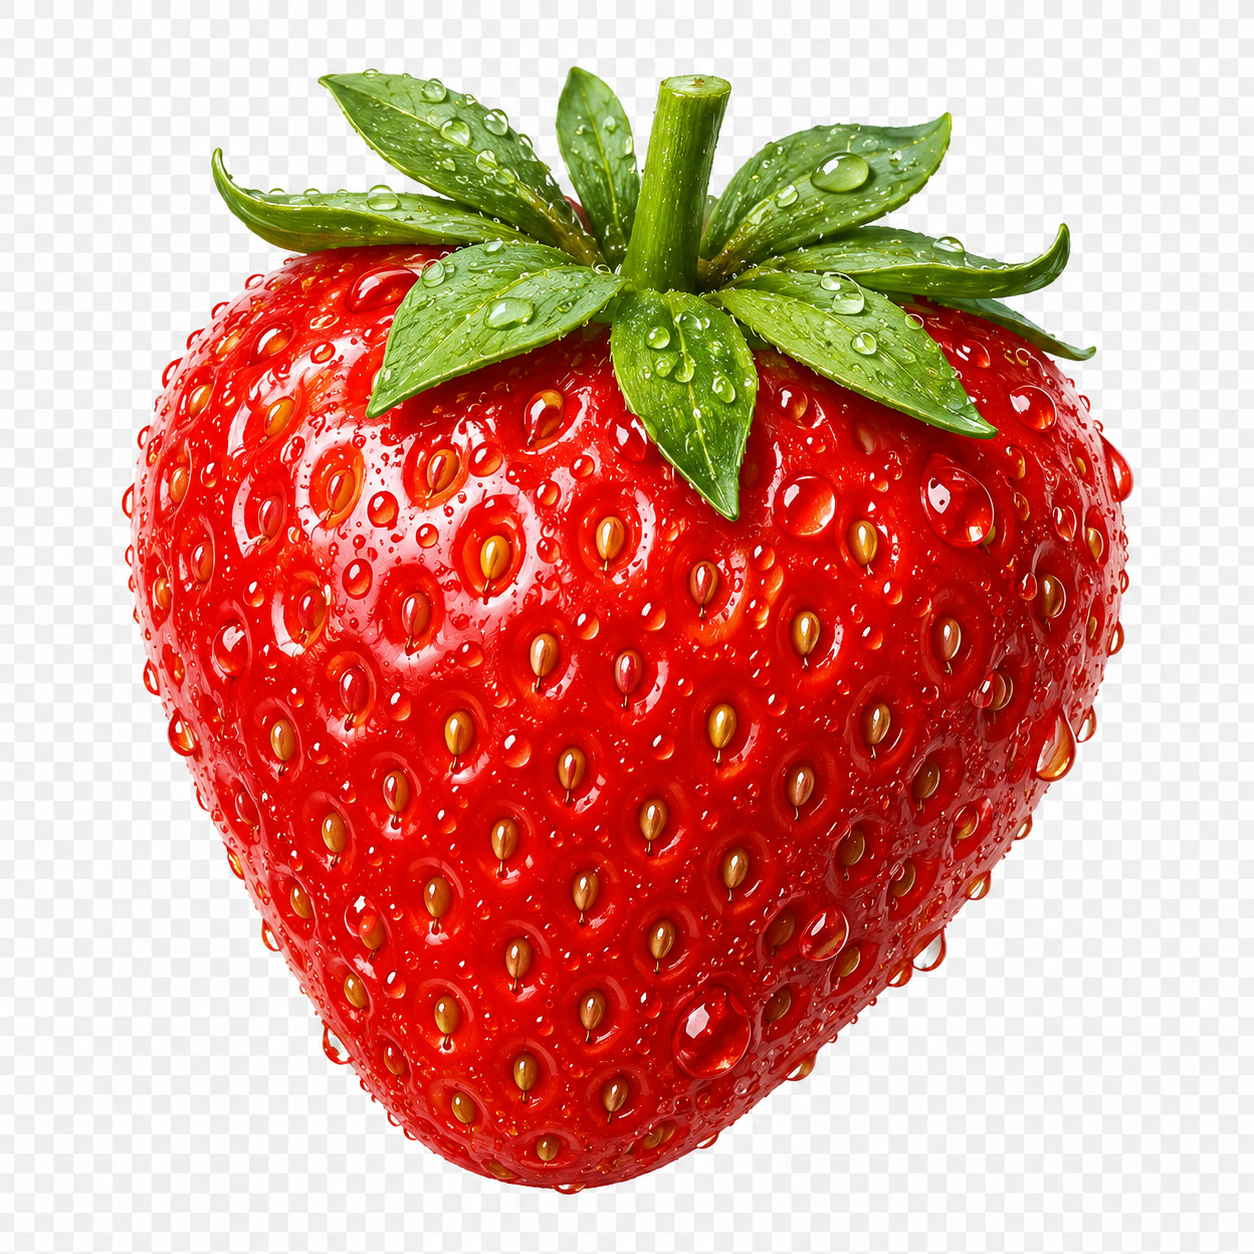
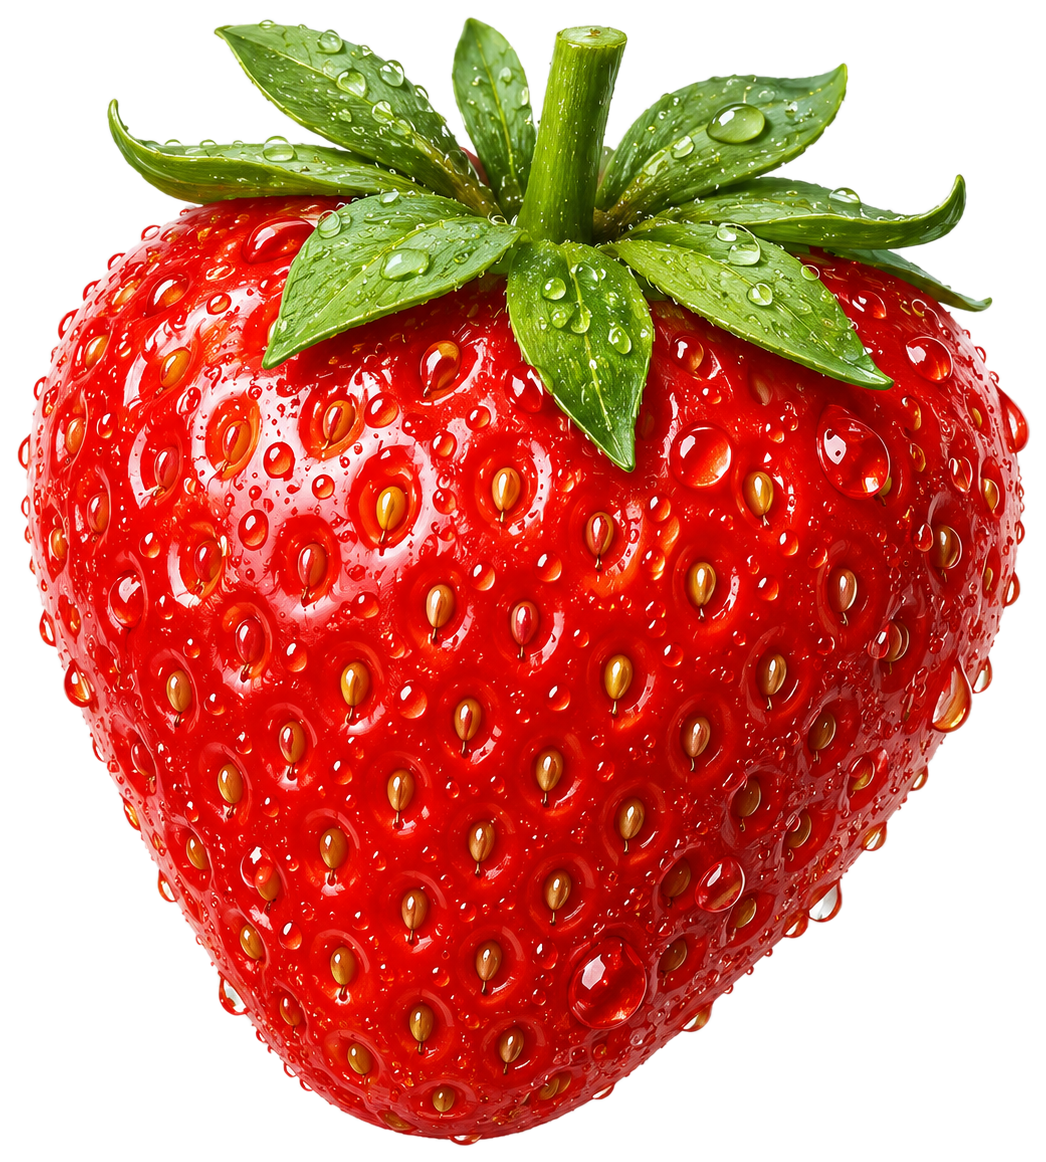
Add files via upload

diff --git a/strawberry-farm.html b/strawberry-farm.html
@@ -90,7 +90,7 @@ body{
 }
 #basketDropZone{
   position:absolute;
-  left:29%; top:52%; width:42%; height:32%;
+  left:26%; top:40%; width:48%; height:56%;
   border-radius:20px;
 }
 #basketDropZone.drag-over{
@@ -102,7 +102,7 @@ body{
   pointer-events:none;
 }
 .fill-berry{
-  position:absolute;width:11%;height:auto;
+  position:absolute;width:22%;height:auto;
   object-fit:contain;
   filter:drop-shadow(0 3px 4px rgba(0,0,0,0.35));
   animation:berryDrop 0.35s ease;
@@ -133,7 +133,7 @@ body{
   pointer-events:none;
 }
 .tray-berry{
-  width:64px;height:64px;
+  width:128px;height:128px;
   cursor:grab;
   touch-action:none;
   transition:transform 0.15s,opacity 0.15s;
@@ -148,7 +148,7 @@ body{
 .tray-berry.dragging{opacity:0.35;}
 .tray-berry.placed{display:none;}
 #dragGhost{position:fixed;pointer-events:none;z-index:9999;display:none;transform:translate(-50%,-50%);}
-#dragGhost img{width:64px;height:64px;object-fit:contain;filter:drop-shadow(0 6px 10px rgba(0,0,0,0.4));}
+#dragGhost img{width:128px;height:128px;object-fit:contain;filter:drop-shadow(0 6px 10px rgba(0,0,0,0.4));}
 #feedbackMsg{
   position:fixed;top:50%;left:50%;
   transform:translate(-50%,-50%) scale(0);
@@ -182,7 +182,7 @@ body{
 .win-btn.red{background:linear-gradient(180deg,#cc4422,#880000);color:#ffaaaa;box-shadow:0 4px 0 #440000;}
 @media(max-width:600px){
   .logo{font-size:20px;}
-  .tray-berry{width:52px;height:52px;}
+  .tray-berry{width:100px;height:100px;}
 }
 </style>
 </head>
@@ -384,11 +384,20 @@ function handleDrop(berryId){
   const img = document.createElement('img');
   img.src = '/strawberry.png';
   img.className = 'fill-berry';
-  const rot = (Math.random()*50-25).toFixed(0)+'deg';
+  const rot = (Math.random()*40-20).toFixed(0)+'deg';
   img.style.setProperty('--rot', rot);
-  img.style.left = (10 + Math.random()*70)+'%';
-  img.style.top = (Math.max(0, 55 - placedCount*6) + Math.random()*10)+'%';
-  img.style.zIndex = placedCount;
+
+  // pack berries into a rising mound: 3 per row, each row higher and narrower
+  const perRow = 3;
+  const i = placedCount - 1; // 0-indexed
+  const row = Math.floor(i / perRow);
+  const col = i % perRow;
+  const rowOffset = (row % 2 === 0) ? 0 : 11; // stagger alternate rows
+  const leftPct = 14 + col*26 + rowOffset + (Math.random()*6-3);
+  const topPct = 74 - row*20 + (Math.random()*4-2);
+  img.style.left = leftPct+'%';
+  img.style.top = Math.max(2, topPct)+'%';
+  img.style.zIndex = 10 + placedCount;
   fill.appendChild(img);
 
   document.getElementById('countNumOverlay').textContent = placedCount;
